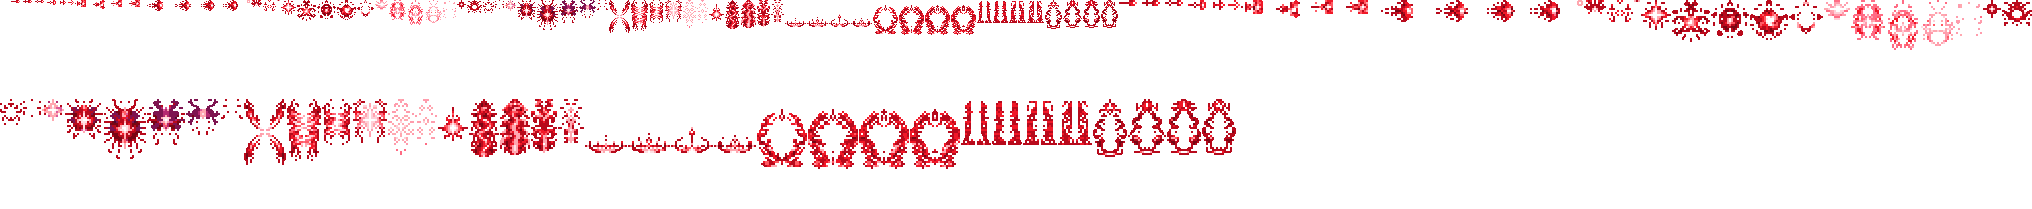
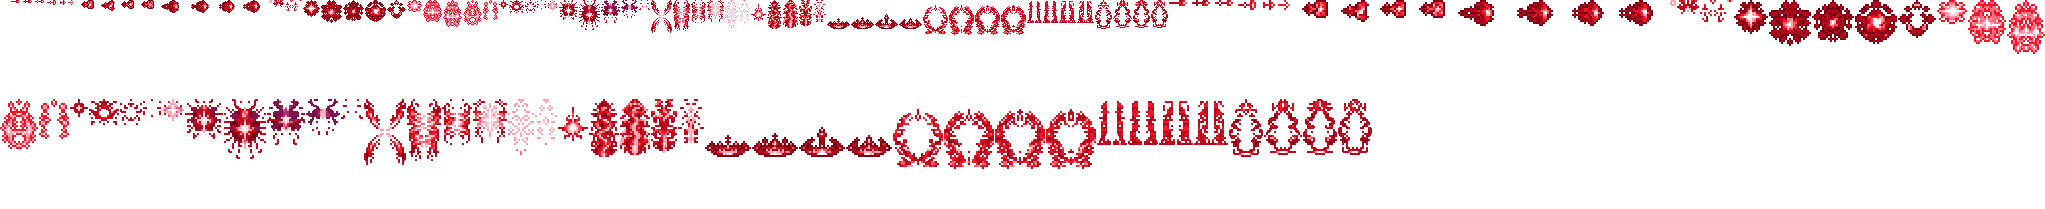
吸血鬼 Q 特效加粗（用户：「吸血鬼的Q技能特效几乎看不出 要加粗点吧」）：q1 / q_drain / q_orb / q_heal / q_rush 每帧大一格、形状往外长一格，新的一圈用这一段自己最深的颜色；高清帧是加粗后的 1 倍帧 Scale2x；tools/fix/vladimir_q_bold.py（按哈希认原图，--check）。主包 0.365.0、league.dll 0.9.54（编进新的 fanim）

Changed region(s): [[0.0, 0.4593, 0.6821, 0.8038], [0.0, 0.0, 1.0, 0.2584]]

diff --git a/tools/fix/vladimir_q_bold.py b/tools/fix/vladimir_q_bold.py
@@ -1,0 +1,105 @@
+#!/usr/bin/env python3
+"""Vladimir's Transfusion (Q) pictures drawn bolder (the user, 2026-11-14: 「吸血鬼的Q技能特效几乎看不出 要加粗点吧」).
+
+    python -I tools/fix/vladimir_q_bold.py           # make the Q tags bold (only from the frames it knows)
+    python -I tools/fix/vladimir_q_bold.py --check   # fail unless the sheet holds the bold frames
+
+league/effects/league_vladimir_fx: the Q tags - q1 (the splash where it lands), q_drain (on the target), q_orb (the blood
+coming back to him), q_heal (on him), q_rush (the empowered one) - and their hd_ twins. They were 1x drawings with lines a
+pixel thick: q_orb is 17 x 7 game px, a red streak on the green grass, 「几乎看不出」. Now each 1x frame grows a pixel on
+every side and its shape a pixel outward (4-neighbour: a 1-px line becomes 3 px wide), the new ring in the darkest colour
+the tag already has (no colour made up: q1 / q_drain / q_orb / q_rush their dark crimson 120,6,20 - which also edges the
+red against the grass - q_heal its own red 240,24,40); the frame's own pixels stay on top. The hd_ frames are the bold
+1x frames Scale2x'd (densify_fx.scale2x, what every effect tag no redraw replaced is), so a later densify run gives the
+same hd_ frames back. Every other tag of the sheet, every duration and every frame count stays as it is; the frames
+grow symmetrically, so they stay centred where they are drawn. league.dll embeds the fanim (league_main/src/fx_ppu.rs):
+rebuild it with the sheet.
+
+The script knows the original frames by hash: the originals -> written; already bold -> nothing; anything else -> it
+stops (redo by hand). --check is the CI kind.
+"""
+import argparse
+import hashlib
+import os
+import sys
+
+import numpy as np
+
+HERE = os.path.dirname(os.path.abspath(__file__))
+ROOT = os.path.dirname(os.path.dirname(HERE))
+sys.path.insert(0, os.path.join(ROOT, "tools", "art"))
+import densify_fx as D  # noqa: E402
+
+STEM = os.path.join(ROOT, "league", "effects", "league_vladimir_fx")
+TAGS = ("q1", "q_drain", "q_orb", "q_heal", "q_rush")
+
+
+def digest(frames):
+    h = hashlib.sha256()
+    for a, ms in frames:
+        h.update(repr((a.shape, ms)).encode())
+        h.update(np.ascontiguousarray(a).tobytes())
+    return h.hexdigest()[:16]
+
+
+def darkest(frames):
+    """the tag's darkest opaque colour (by luminance)"""
+    cols = {tuple(int(v) for v in px) for a, _ in frames for px in a.reshape(-1, 4) if px[3] == 255}
+    return min(cols, key=lambda c: 0.3 * c[0] + 0.59 * c[1] + 0.11 * c[2])
+
+
+def bold(a, ring):
+    """a 1x frame a pixel bigger on every side, its shape a pixel thicker (4-neighbour), the new pixels `ring`"""
+    p = np.pad(a, ((1, 1), (1, 1), (0, 0)))
+    m = p[:, :, 3] > 0
+    grown = m.copy()
+    grown[1:, :] |= m[:-1, :]
+    grown[:-1, :] |= m[1:, :]
+    grown[:, 1:] |= m[:, :-1]
+    grown[:, :-1] |= m[:, 1:]
+    out = p.copy()
+    new = grown & ~m
+    out[new] = np.array(ring, np.uint8)
+    return out
+
+
+def bold_tags(tags):
+    """{tag: frames} for the Q tags and their hd_ twins, made bold from the given (original) 1x frames"""
+    out = {}
+    for t in TAGS:
+        ring = darkest(tags[t])
+        b = [(bold(a, ring), ms) for a, ms in tags[t]]
+        out[t] = b
+        old_hd = tags["hd_" + t]
+        assert len(old_hd) == len(b), t
+        out["hd_" + t] = [(D.scale2x(a), ms) for (a, _), (_, ms) in zip(b, old_hd)]
+    return out
+
+
+def main():
+    ap = argparse.ArgumentParser()
+    ap.add_argument("--check", action="store_true")
+    a = ap.parse_args()
+    tags = D.load_sheet(STEM)
+    now = {t: digest(tags[t]) for t in TAGS}
+    if all(now[t] == BOLD.get(t) for t in TAGS):
+        print("league_vladimir_fx: the Q tags are bold already")
+        return
+    if a.check:
+        sys.exit(f"league_vladimir_fx: the Q tags are not the bold ones ({now}) - run tools/fix/vladimir_q_bold.py")
+    if any(now[t] != ORIGINAL[t] for t in TAGS):
+        sys.exit(f"league_vladimir_fx: the Q tags are neither the originals nor the bold ones ({now}) - redo by hand")
+    new = bold_tags(tags)
+    for t, frames in new.items():
+        tags[t] = frames
+    D.G.write_sheet(D.G.lp(STEM), tags, share=True)
+    print("league_vladimir_fx: Q tags made bold:", {t: [f[0].shape[:2] for f in new[t]][:2] for t in TAGS})
+    print("bold digests:", {t: digest(new[t]) for t in TAGS})
+
+
+# the 1x frames (shape, duration, pixels) the script starts from, and what it makes of them
+ORIGINAL = {"q1": "e7f3c242f675991f", "q_drain": "956746b1f2985c91", "q_orb": "6ec757e763a05e0b", "q_heal": "fad12b810d51a78a", "q_rush": "96015de7c4af7f49"}
+BOLD = {"q1": "b67907bacda0f8f1", "q_drain": "ba03f26c8f21399b", "q_orb": "ad33392937cfc6d0", "q_heal": "017141e089a28e8c", "q_rush": "c2637d458caf3b21"}
+
+if __name__ == "__main__":
+    main()

diff --git a/addons/league_main/src/lib.rs b/addons/league_main/src/lib.rs
@@ -86,7 +86,7 @@ mod stack_table;
 mod warm;
 
 pub const ID: &str = "league";
-const VERSION: &str = "0.9.53";
+const VERSION: &str = "0.9.54";
 
 static LOG_LOCK: Mutex<()> = Mutex::new(());
 static LOG_FILE: Mutex<Option<std::fs::File>> = Mutex::new(None);

diff --git a/docs/heroes/league_vladimir.md b/docs/heroes/league_vladimir.md
@@ -110,6 +110,7 @@
 | 特效 | Codex 生图的 19 张（`import_vladimir.py` 缩成游戏像素）：`league_vladimir_fx` 普攻血弹、命中，Q 的抽血、血球、猩红冲刺的大血球、回血、半满的血环，E 的蓄力血珠、血弹、命中，W 的吸血，R 的瘟疫印记、爆发、回血，连招的血雾闪烁；`league_vladimir_big` E 的血浪、W 的溅血和血池、R 的血云 |
 | 音效 | 英雄联盟的音效和配音（`tools/lol/extract_vladimir.py`）：普攻、Q 出手和命中、回血、猩红冲刺，E 蓄力和释放、命中，血池进出（也给连招的闪烁），R 出手、落地、爆发；Q、E、R 和血池结束各一句中文配音。版权属于 Riot Games，**不提交到仓库**，按下面的命令在本地生成 |
 | 图标 | 官方技能图标（Q / E / R），从本地客户端提取，缩到 64×64；W 自动，没有技能位 |
+| Q 特效加粗（主包 0.365.0，2026-11-14） | 用户：「吸血鬼的Q技能特效几乎看不出 要加粗点吧」。Q 的五段画面（落点的血花 q1、目标身上的吸血 q_drain、飞回他身上的血 q_orb、他身上的回血 q_heal、强化 Q 的 q_rush）原来是一像素细线的 1 倍画，q_orb 只有 17×7 游戏像素，红色压在绿草地上几乎看不见。`tools/fix/vladimir_q_bold.py`：每帧四周各大一格、形状往外长一格（一像素的线变三像素宽），新长出的一圈用这一段自己最深的颜色（q1 / q_drain / q_orb / q_rush 用它们的深红 120,6,20，正好给红色描上深边；q_heal 用它自己的红 240,24,40），原来的像素留在上面；高清帧是加粗后的 1 倍帧 Scale2x 放大（densify_fx.scale2x，和其他没重画的特效一样）。只动这 10 段（含 hd_），别的特效、时长、帧数不变；帧对称地变大，位置不偏。league.dll 把这张图的 fanim 编进去，跟着重编 |
 
 重新生成（素材来自本机的英雄联盟客户端，音频不进仓库）：
 
